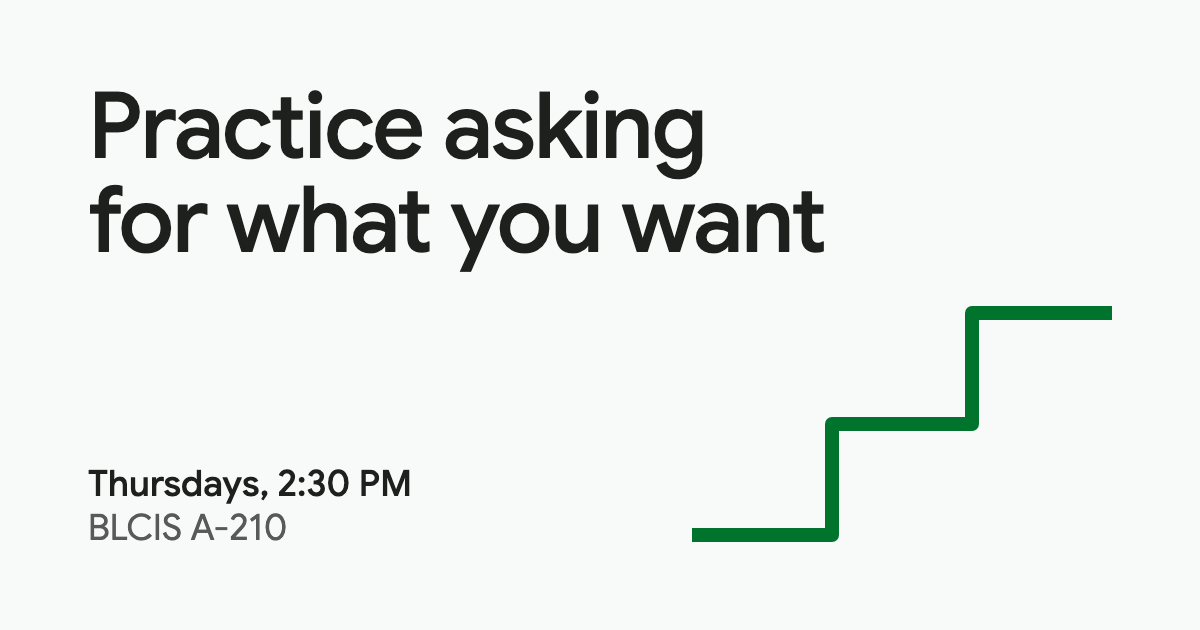
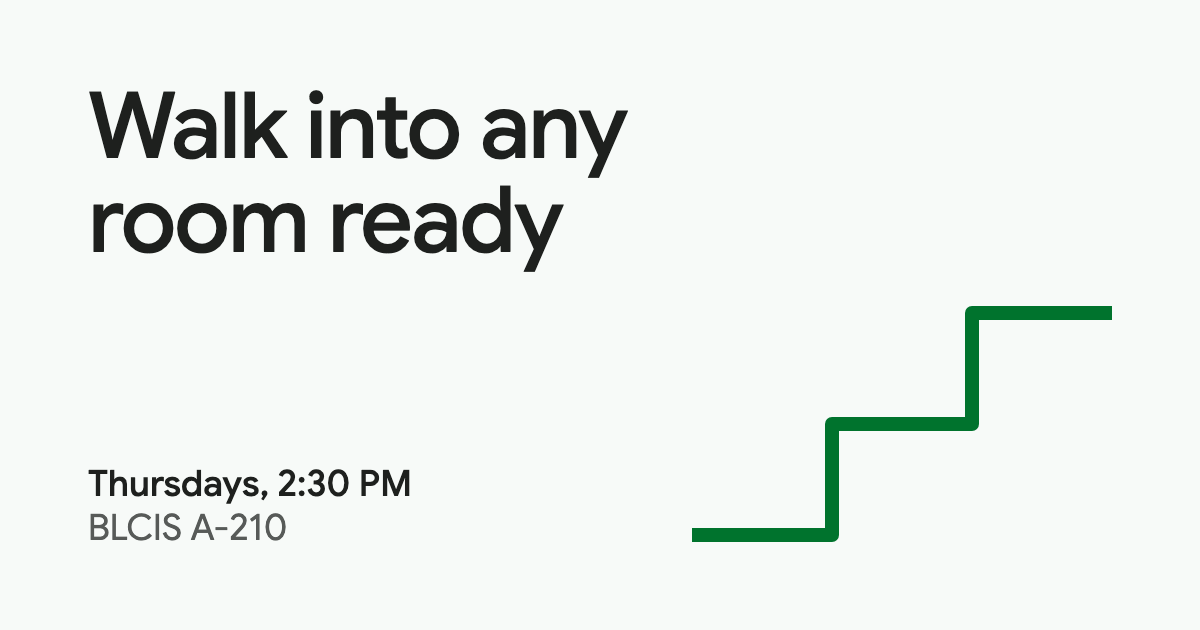
Add an ambient Step field and career-focused copy to the landing page
Sam asked for ambiance that makes the page breathe, built with GSAP on a
single canvas, and copy that pushes self-improvement through community
and preparation for professional fields.

The field is the Step field from the design system on one <canvas> inside
<main>: lanes of small Step marks draw in, rise slowly, and breathe. GSAP
3.15.0 owns time (ticker) and every eased value (draw-in, per-lane breath,
fade-in after the staircase draws). Constraints that shaped it: green
only, no gradients or glow, never behind the logo, peak alpha 0.10 with
one mark per lane so grey text stays at 5.72:1 at worst, and marks fade
to 30% near text. Reduced motion, or GSAP failing to load, draws a still
frame. It pauses off screen and costs about 5 to 7 ms of script a second.

GSAP loads from cdnjs, pinned, with the SRI hash cdnjs publishes.

Copy: "Walk into any room ready"; students from any major practice the
skills careers are built on, out loud and together; the treads read
"Send the cold message", "Get the meeting", "Own the room at Demo Day".
The share card carries the new headline.

Changed region(s): [[0.0617, 0.3016, 0.6783, 0.4524], [0.0617, 0.1206, 0.5858, 0.3016]]

diff --git a/semesters/2026-fall/landing-page/index.html b/semesters/2026-fall/landing-page/index.html
@@ -5,17 +5,17 @@
 <meta name="viewport" content="width=device-width, initial-scale=1">
 <meta name="color-scheme" content="light">
 <title>GDG on Campus Riverside City College</title>
-<meta name="description" content="Practice asking for what you want. Thursdays, 2:30 to 3:30 PM in BLCIS A-210. Any major, nothing technical.">
+<meta name="description" content="Walk into any room ready. Every Thursday at 2:30 in BLCIS A-210, students from any major practice the skills careers are built on. Nothing technical.">
 <meta name="theme-color" content="#f7faf8">
 <link rel="canonical" href="https://sam-t-g.github.io/rcc-gdg/">
 <meta property="og:type" content="website">
 <meta property="og:url" content="https://sam-t-g.github.io/rcc-gdg/">
 <meta property="og:title" content="GDG on Campus Riverside City College">
-<meta property="og:description" content="Practice asking for what you want. Thursdays, 2:30 to 3:30 PM in BLCIS A-210. Any major, nothing technical.">
+<meta property="og:description" content="Walk into any room ready. Every Thursday at 2:30 in BLCIS A-210, students from any major practice the skills careers are built on. Nothing technical.">
 <meta property="og:image" content="https://sam-t-g.github.io/rcc-gdg/og.png">
 <meta property="og:image:width" content="1200">
 <meta property="og:image:height" content="630">
-<meta property="og:image:alt" content="Practice asking for what you want. Thursdays, 2:30 PM, BLCIS A-210. A green staircase rises beside the words.">
+<meta property="og:image:alt" content="Walk into any room ready. Thursdays, 2:30 PM, BLCIS A-210. A green staircase rises beside the words.">
 <meta name="twitter:card" content="summary_large_image">
 <link rel="icon" href="favicon.svg" type="image/svg+xml">
 <link rel="apple-touch-icon" href="apple-touch-icon.png">
@@ -23,6 +23,8 @@
 <link rel="preconnect" href="https://fonts.gstatic.com" crossorigin>
 <link rel="stylesheet" href="https://fonts.googleapis.com/css2?family=Google+Sans:ital,GRAD,opsz,wght@0,-50..200,17..18,400..700;1,-50..200,17..18,400..700&display=swap">
 <link rel="stylesheet" href="tokens.css">
+<!-- GSAP drives the ambient field only. Pinned, integrity-checked, and optional: without it the field is a still frame. -->
+<script src="https://cdnjs.cloudflare.com/ajax/libs/gsap/3.15.0/gsap.min.js" integrity="sha512-oJ8QbaQThQoJZ7oEv+29jfPM6CcP+zUxh3PKJs1vyOhx0UraUrE7PQgeItu3dOuCJyrzWpoYMsVjkkPEBzbUqw==" crossorigin="anonymous" referrerpolicy="no-referrer" defer></script>
 <style>
   /* Light only. The horizontal lockup exists only as a light file, and the
      logo may not be recolored, so the page does not follow a dark system theme.
@@ -38,7 +40,15 @@
   main:focus { outline: none; box-shadow: none; } /* focus target, not a control */
 
   .page { min-block-size: 100svh; display: flex; flex-direction: column; }
-  main { flex: 1; }
+  main { flex: 1; position: relative; isolation: isolate; }
+
+  /* --- Ambient field --------------------------------------------------------
+     The Step field (accessibility.md §2.3) on one canvas behind the hero. Small
+     Step marks draw in, rise slowly, and breathe. It sits inside <main>, so it
+     never runs behind the logo, which needs a flat ground (bright-lines.md §1.5).
+     Green only, peak alpha 0.10, one mark per lane so marks never stack: grey
+     text over a mark measures 5.72:1 at worst, and marks fade further behind text. */
+  .ambient { position: absolute; inset: 0; inline-size: 100%; block-size: 100%; z-index: -1; pointer-events: none; }
 
   /* --- Header ------------------------------------------------------------- */
   .site-header { padding-block-start: var(--rcc-space-6); }
@@ -51,7 +61,7 @@
     padding-block: var(--rcc-rhythm-section) var(--rcc-rhythm-section);
   }
   .hero h1 {
-    grid-area: title;
+    grid-area: title; text-wrap: balance;
     font-size: var(--rcc-size-display-lg); line-height: var(--rcc-lh-display-lg);
     letter-spacing: var(--rcc-track-display-lg);
     max-width: 18ch; margin: 0 0 var(--rcc-space-4);
@@ -159,15 +169,16 @@
 </header>
 
 <main id="main" tabindex="-1">
+  <canvas class="ambient" aria-hidden="true"></canvas>
   <section class="hero rcc-container" aria-labelledby="page-title">
-    <h1 id="page-title">Practice asking for what you want</h1>
-    <p class="hero__sub">An hour every Thursday, out loud, with students from any major. Nothing technical.</p>
+    <h1 id="page-title">Walk into any room ready</h1>
+    <p class="hero__sub">Every Thursday, students from any major practice the skills careers are built on, out loud and together. Nothing technical.</p>
 
     <div class="climb">
       <ol class="climb__steps" aria-label="The semester in three arcs">
-        <li style="--i: 0"><strong>Voice</strong>Send a real message</li>
-        <li style="--i: 1"><strong>Ask</strong>Book a real appointment</li>
-        <li style="--i: 2"><strong>Evidence</strong>Present at Demo Day</li>
+        <li style="--i: 0"><strong>Voice</strong>Send the cold message</li>
+        <li style="--i: 1"><strong>Ask</strong>Get the meeting</li>
+        <li style="--i: 2"><strong>Evidence</strong>Own the room at Demo Day</li>
       </ol>
       <svg class="climb__line climb__line--sm" viewBox="0 0 300 120" preserveAspectRatio="none" aria-hidden="true" focusable="false">
         <path d="M0 116H100V60H200V4H300" fill="none" stroke="currentColor" stroke-width="8"
@@ -255,6 +266,178 @@
   }
   line.append(': ' + next.title);
 })();
+</script>
+<script>
+/* Ambient field. Lanes of small Step marks rise, draw in, and breathe on one canvas.
+   GSAP owns time (ticker) and every eased value (draw-in, breath, fade-in).
+   Reduced motion, or GSAP failing to load, renders one still frame. */
+document.addEventListener('DOMContentLoaded', function () {
+  'use strict';
+  var stage = document.getElementById('main');
+  var canvas = stage && stage.querySelector('.ambient');
+  if (!canvas || !canvas.getContext) return;
+  var ctx = canvas.getContext('2d');
+  var gsap = window.gsap;
+  var GREEN = getComputedStyle(document.documentElement).getPropertyValue('--rcc-primary').trim() || '#00732d';
+  var PEAK = 0.10;   // highest alpha a mark reaches
+  var QUIET = 0.3;   // what is left of that behind text
+  var reduce = window.matchMedia('(prefers-reduced-motion: reduce)');
+
+  var W = 0, H = 0, lanes = [], quiet = [], running = false, visible = true, ticking = false;
+  var field = { alpha: 0 };
+
+  function rand(a, b) { return a + Math.random() * (b - a); }
+  function smooth(t) { t = Math.max(0, Math.min(1, t)); return t * t * (3 - 2 * t); }
+
+  function measure() {
+    var r = stage.getBoundingClientRect();
+    var dpr = Math.min(window.devicePixelRatio || 1, 2);
+    W = r.width; H = r.height;
+    canvas.width = Math.round(W * dpr); canvas.height = Math.round(H * dpr);
+    ctx.setTransform(dpr, 0, 0, dpr, 0, 0);
+    quiet = Array.prototype.map.call(stage.querySelectorAll('h1, .hero__sub, .when, .climb, .cta'), function (el) {
+      var b = el.getBoundingClientRect();
+      return { l: b.left - r.left, t: b.top - r.top, r: b.right - r.left, b: b.bottom - r.top };
+    });
+  }
+
+  // 1 in open space, easing down to QUIET within 32px of any text block.
+  function quietAt(x, y) {
+    var d = Infinity;
+    for (var i = 0; i < quiet.length; i++) {
+      var q = quiet[i];
+      var dx = Math.max(q.l - x, 0, x - q.r), dy = Math.max(q.t - y, 0, y - q.b);
+      d = Math.min(d, Math.sqrt(dx * dx + dy * dy));
+    }
+    return QUIET + (1 - QUIET) * smooth(d / 32);
+  }
+
+  function place(lane, y) {
+    var s = rand(14, 26);
+    return { x: lane.x + rand(0.15, 1) * (lane.w - s * 1.3), y: y, s: s, a: rand(0.45, 1), p: 1 };
+  }
+
+  function build(animated) {
+    lanes.forEach(function (lane) { if (gsap) { gsap.killTweensOf(lane); gsap.killTweensOf(lane.marks); } });
+    var cell = W < 600 ? 64 : 88, cols = Math.max(1, Math.floor(W / cell)), cw = W / cols;
+    lanes = [];
+    for (var c = 0; c < cols; c++) {
+      var lane = { x: c * cw, w: cw, cell: cell, speed: rand(5, 11), b: 0.5, marks: [] };
+      for (var y = rand(-cell, cell); y < H + cell; y += cell * rand(1, 1.7)) {
+        if (Math.random() < 0.5) lane.marks.push(place(lane, y));
+      }
+      if (animated) {
+        var breath = gsap.fromTo(lane, { b: 0 }, { b: 1, duration: rand(5, 9), ease: 'sine.inOut', repeat: -1, yoyo: true });
+        breath.totalTime(rand(0, 18));
+        lane.marks.forEach(function (m) {
+          m.p = 0;
+          gsap.to(m, { p: 1, duration: rand(1.4, 2.2), ease: 'power2.inOut', delay: rand(0.9, 3) });
+        });
+      }
+      lanes.push(lane);
+    }
+  }
+
+  // Low run, rise, high run: the Mark from accessibility.md §2.4, drawn up to p of its length.
+  function drawMark(m, alpha, grow) {
+    var s = m.s * grow, x = m.x - (s - m.s) / 2, y = m.y - (s - m.s) / 2;
+    var pts = [x + 0.125 * s, y + 0.8125 * s, x + 0.5 * s, y + 0.8125 * s,
+               x + 0.5 * s, y + 0.1875 * s, x + 0.875 * s, y + 0.1875 * s];
+    var lens = [0.375 * s, 0.625 * s, 0.375 * s], left = 1.375 * s * m.p;
+    ctx.globalAlpha = alpha;
+    ctx.lineWidth = 0.125 * s;
+    ctx.beginPath();
+    ctx.moveTo(pts[0], pts[1]);
+    for (var i = 0; i < 3 && left > 0; i++) {
+      var f = Math.min(1, left / lens[i]), j = i * 2;
+      ctx.lineTo(pts[j] + (pts[j + 2] - pts[j]) * f, pts[j + 1] + (pts[j + 3] - pts[j + 1]) * f);
+      left -= lens[i];
+    }
+    ctx.stroke();
+  }
+
+  function frame(dt) {
+    var step = Math.min(dt || 0, 64) / 1000;
+    ctx.clearRect(0, 0, W, H);
+    ctx.strokeStyle = GREEN; ctx.lineJoin = 'round'; ctx.lineCap = 'butt';
+    for (var l = 0; l < lanes.length; l++) {
+      var lane = lanes[l], marks = lane.marks;
+      for (var k = 0; k < marks.length; k++) {
+        var m = marks[k];
+        m.y -= lane.speed * step;
+        var cx = m.x + m.s / 2, cy = m.y + m.s / 2;
+        var alpha = PEAK * m.a * field.alpha * (0.7 + 0.3 * lane.b)
+                  * smooth(cy / 96) * smooth((H - cy) / 72) * quietAt(cx, cy);
+        if (alpha > 0.004 && m.p > 0) drawMark(m, alpha, 1 + 0.05 * lane.b);
+      }
+      // Recycle the mark that has risen out of the top into a slot below the bottom.
+      if (step > 0 && marks.length && marks[0].y + marks[0].s < 0) {
+        var gone = marks.shift(), last = marks[marks.length - 1];
+        var ny = Math.max(H + lane.cell * 0.5, last ? last.y + lane.cell * rand(1, 1.7) : 0);
+        var fresh = place(lane, ny);
+        fresh.p = 0;
+        gsap.to(fresh, { p: 1, duration: rand(1.4, 2.2), ease: 'power2.inOut',
+                         delay: Math.max(0, (ny - H + 24) / lane.speed) });
+        marks.push(fresh);
+      }
+    }
+    ctx.globalAlpha = 1;
+  }
+
+  function tick(time, deltaTime) { frame(deltaTime); }
+  function ticker(on) {
+    if (on === ticking) return;
+    ticking = on;
+    if (on) gsap.ticker.add(tick); else gsap.ticker.remove(tick);
+  }
+
+  function still() {
+    stop();
+    build(false);
+    field.alpha = 1;
+    frame(0);
+  }
+  function start() {
+    build(true);
+    gsap.fromTo(field, { alpha: 0 }, { alpha: 1, duration: 1.8, ease: 'sine.out', delay: 0.8 });
+    running = true;
+    ticker(visible);
+  }
+  function stop() {
+    if (gsap) { ticker(false); gsap.killTweensOf(field); }
+    running = false;
+  }
+  function apply() {
+    measure();
+    if (!gsap || reduce.matches) { still(); return; }
+    if (running) { build(true); return; } // new size: new lanes, the fade-in carries on
+    start();
+  }
+
+  // Pause while the hero is off screen.
+  if ('IntersectionObserver' in window && gsap) {
+    new IntersectionObserver(function (entries) {
+      visible = entries[0].isIntersecting;
+      if (running) ticker(visible);
+    }).observe(stage);
+  }
+
+  // Rebuild on a real size change (rotation, window resize), not on every pixel.
+  var lastW = 0, lastH = 0, pending = 0;
+  if ('ResizeObserver' in window) {
+    new ResizeObserver(function () {
+      var r = stage.getBoundingClientRect();
+      if (Math.abs(r.width - lastW) < 1 && Math.abs(r.height - lastH) < 1) return;
+      lastW = r.width; lastH = r.height;
+      cancelAnimationFrame(pending);
+      pending = requestAnimationFrame(apply);
+    }).observe(stage);
+  } else {
+    apply();
+  }
+  if (reduce.addEventListener) reduce.addEventListener('change', apply);
+  document.fonts && document.fonts.ready.then(function () { measure(); if (!running) frame(0); });
+});
 </script>
 </body>
 </html>

diff --git a/docs/01-governance/decision-log.md b/docs/01-governance/decision-log.md
@@ -16,7 +16,7 @@ Newest entries at the top. Do not edit or delete old rows; if a decision is reve
 
 | Date | Decision | Who | Link |
 | --- | --- | --- | --- |
-| 2026-09-14 | **The club has a public landing page at <https://sam-t-g.github.io/rcc-gdg/>, hosted on GitHub Pages.** It exists for Club Rush on 2026-09-15 and 2026-09-16: the table QR code points at it, so the URL must outlive the fair. Pages was chosen because the repo is already the club's public front door and the URL is free and stable. The source lives in `semesters/2026-fall/landing-page/` (it carries this semester's dates, so rule 1 keeps it out of `docs/`); `scripts/publish-site.sh` builds it with `tokens.css` and the logo files into a gitignored `site/` and commits the build to the `gh-pages` branch, which holds build output only. It is a deliberately short hook rather than the full club site home archetype: headline, the three arcs drawn as the Staircase, when and where with the next session's title, one Join the Discord button, and a footer with Bevy and the code of conduct. No "Email an officer" button (no club address exists) and no Bevy RSVP until a Fall 2026 event is published there. **The page is light only**: the horizontal lockup exists only as a light file and the logo may not be recolored, so a dark system theme would otherwise force the stacked lockup into the header. | Sam Gerungan | [landing-page/README.md](../../semesters/2026-fall/landing-page/README.md) |
+| 2026-09-14 | **The club has a public landing page at <https://sam-t-g.github.io/rcc-gdg/>, hosted on GitHub Pages.** It exists for Club Rush on 2026-09-15 and 2026-09-16: the table QR code points at it, so the URL must outlive the fair. Pages was chosen because the repo is already the club's public front door and the URL is free and stable. The source lives in `semesters/2026-fall/landing-page/` (it carries this semester's dates, so rule 1 keeps it out of `docs/`); `scripts/publish-site.sh` builds it with `tokens.css` and the logo files into a gitignored `site/` and commits the build to the `gh-pages` branch, which holds build output only. It is a deliberately short hook rather than the full club site home archetype: headline, the three arcs drawn as the Staircase, when and where with the next session's title, one Join the Discord button, and a footer with Bevy and the code of conduct. No "Email an officer" button (no club address exists) and no Bevy RSVP until a Fall 2026 event is published there. **The page is light only**: the horizontal lockup exists only as a light file and the logo may not be recolored, so a dark system theme would otherwise force the stacked lockup into the header. **The page loads one third-party script, GSAP 3.15.0 from cdnjs** (pinned, SRI-checked, standard GSAP license), for an ambient Step field on a canvas behind the hero; the page is complete without it, and reduced motion gets a still frame. | Sam Gerungan | [landing-page/README.md](../../semesters/2026-fall/landing-page/README.md) |
 | 2026-09-01 | Asset specs adopted: [design-system/assets.md](../04-brand/design-system/assets.md). **The Instagram feed master is 1080 x 1440 (3:4), not 1:1.** The profile grid has shown 3:4 since January 2025 and native 3:4 uploads landed 2025-05-28, so a square post is cropped 135 px off each side in the grid; the publishing API still caps at 4:5, so a scheduler gets 1080 x 1350. Stories are the same master centered on a 1080 x 1920 field. Every other export (share card, repo preview, slides, print) has one row with its safe zone, and type on the master is 44 px or larger. The same file exists in the ACM chapter's repo with one table swapped, so one officer can make content for both clubs. Template change under rule 3: `templates/announcement.md` gains an export-sizes line under Image. | Sam Gerungan | [design-system/assets.md](../04-brand/design-system/assets.md) |
 | 2026-08-31 | Brand correction: **Google Sans Mono is dropped and Google Sans Code replaces it** as the club's code face. Mono has no Google Fonts catalog entry, no public repo, no license file, and an All-Rights-Reserved binary with no license record in name ID 14, so it is not licensed for web embedding; the CSS2 API serving it is not a grant. Code is OFL in `google/fonts` at `ofl/googlesanscode/`. Also decided: link the Google Fonts API rather than self-host Google Sans, because the club cannot point at a license for a binary it would redistribute. [brand.md](../04-brand/brand.md) is corrected. | Sam Gerungan | [design-system/foundations.md](../04-brand/design-system/foundations.md) |
 | 2026-08-31 | Design system adopted for club web pages and design docs: [docs/04-brand/design-system/](../04-brand/design-system/README.md). **Green `#34a853` leads**, with blue reserved for cross-references, red for errors only, and yellow as a fill under dark text only (it measures 1.84:1 on the light surface and can never be text). Three rules keep it off Google: no composition uses all four brand colors, no component uses more than two, and green covers at least 70% of the non-neutral area. The Fall 2026 arcs get a form rather than a hue: the club's own Step device encodes Voice, Ask, and Evidence in its rise position. | Sam Gerungan | [design-system/README.md](../04-brand/design-system/README.md) |

diff --git a/semesters/2026-fall/landing-page/README.md b/semesters/2026-fall/landing-page/README.md
@@ -4,7 +4,7 @@ The club's public web page for this semester, live at <https://sam-t-g.github.io
 
 | File | What it is |
 |---|---|
-| `index.html` | The page: headline, the semester as a green staircase, when and where, one button. Styles come from `tokens.css`; the page layer marks the few rules `tokens.css` does not ship yet as PROPOSED |
+| `index.html` | The page: headline, the semester as a green staircase, when and where, one button, over an ambient Step field on a canvas. Styles come from `tokens.css`; the page layer marks the few rules `tokens.css` does not ship yet as PROPOSED |
 | `favicon.svg` | The Step mark, green on light and light green on dark |
 | `apple-touch-icon.png` | The Step on the page surface, 180 x 180, for home-screen bookmarks |
 | `og.png` | The share card shown when the link is pasted into Discord or a bio: headline, meeting time, and the staircase, 1200 x 630, no logo ([components.md §8.6](../../../docs/04-brand/design-system/components.md)) |
@@ -31,11 +31,13 @@ Change the session list here when a session moves, and change the matching card 
 ## Rules this page follows
 
 - **Light only.** The horizontal lockup exists only as a light file and the logo may not be recolored, so the page ignores a dark system theme rather than swapping in the stacked lockup.
-- **One idea per block, one button.** The staircase is the only decoration: the three arcs as three treads, each label on its own step, drawn once on load and still under reduced motion.
+- **One idea per block, one button.** The staircase carries the semester: the three arcs as three treads, each label on its own step, drawn once on load.
+- **The ambient field** is the Step field ([accessibility.md §2.3](../../../docs/04-brand/design-system/accessibility.md)) on one `<canvas>` inside `<main>`: lanes of small Step marks that draw in, rise, and breathe. It never runs behind the logo. Green only, peak alpha 0.10, one mark per lane so marks never stack; grey text over a mark measures 5.72:1 at worst, and marks fade to 30% within 32 px of any text block. Measured peak on screen: 0.094. It costs about 5 to 7 ms of script per second and pauses when the hero is off screen.
+- **GSAP 3.15.0** drives the field (ticker and tweens), loaded from cdnjs with a pinned version and an SRI hash that matches cdnjs's published one. It is used under the [GSAP standard license](https://gsap.com/standard-license) and is not vendored into this repo. Reduced motion, or GSAP failing to load, draws one still frame; the rest of the page never depends on it.
 - The independence sentence sits in the footer. The page is under two phone screens, so the second placement in [bright-lines.md §1.4](../../../docs/04-brand/design-system/bright-lines.md) does not apply; add it under the header if the page grows past three.
 - No officer names and no photos of people ([privacy-and-public-repo-policy.md](../../../docs/01-governance/privacy-and-public-repo-policy.md)).
 - No icons and no callouts, because the design system names two icon sets and two callout sets and neither question is settled.
-- Checked 2026-09-14 at 320, 390, 768, 1024, 1280, and 1440 px, with the system theme set to light and to dark: horizontal lockup at every size, no horizontal scroll, every text pair at 5.18:1 or better, no tap target under 44 px, zero axe-core 4.10.2 violations, skip link first in tab order, complete with JavaScript off, legible under forced colors, staircase labels 8 px above their treads.
+- Checked 2026-09-14 at 320, 390, 768, 1024, 1280, and 1440 px, with the system theme set to light and to dark: horizontal lockup at every size, no horizontal scroll, every text pair at 5.18:1 or better, no tap target under 44 px, zero axe-core 4.10.2 violations, skip link first in tab order, complete with JavaScript off, legible under forced colors, staircase labels 8 px above their treads. The field was checked moving, still under reduced motion, and still with cdnjs blocked, with no console errors in any case.
 
 ## Not in this folder
 
